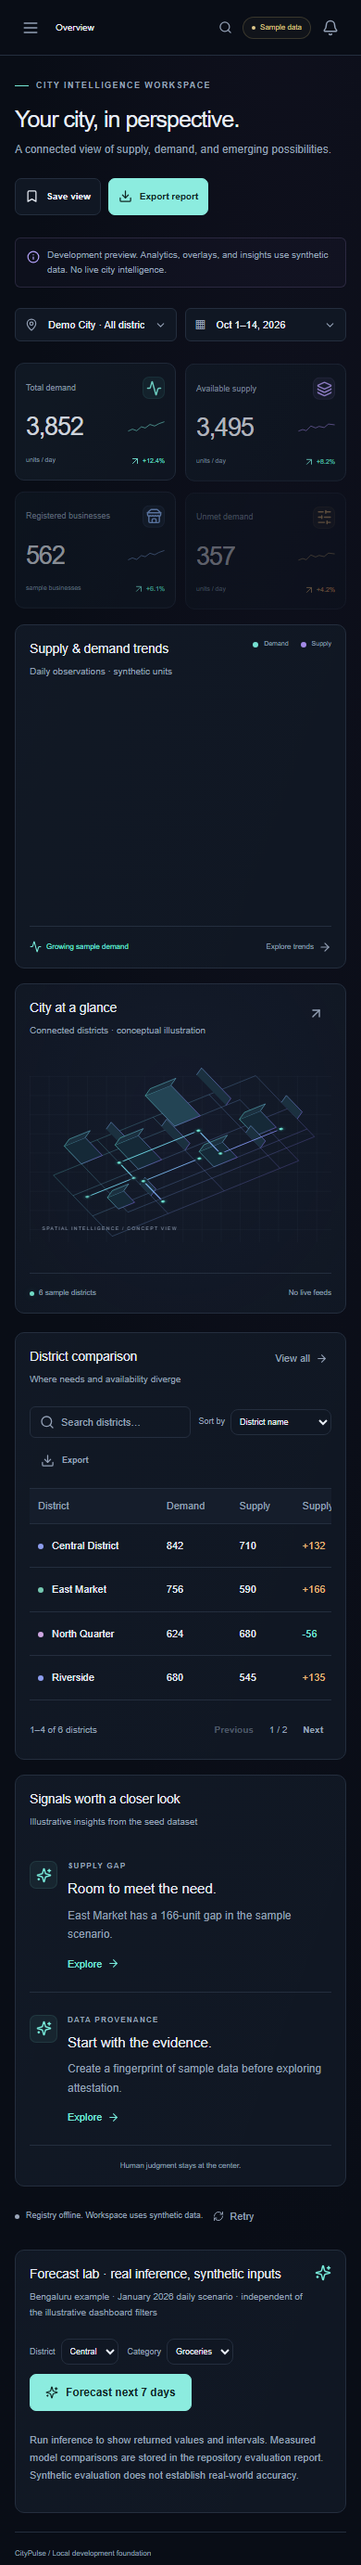
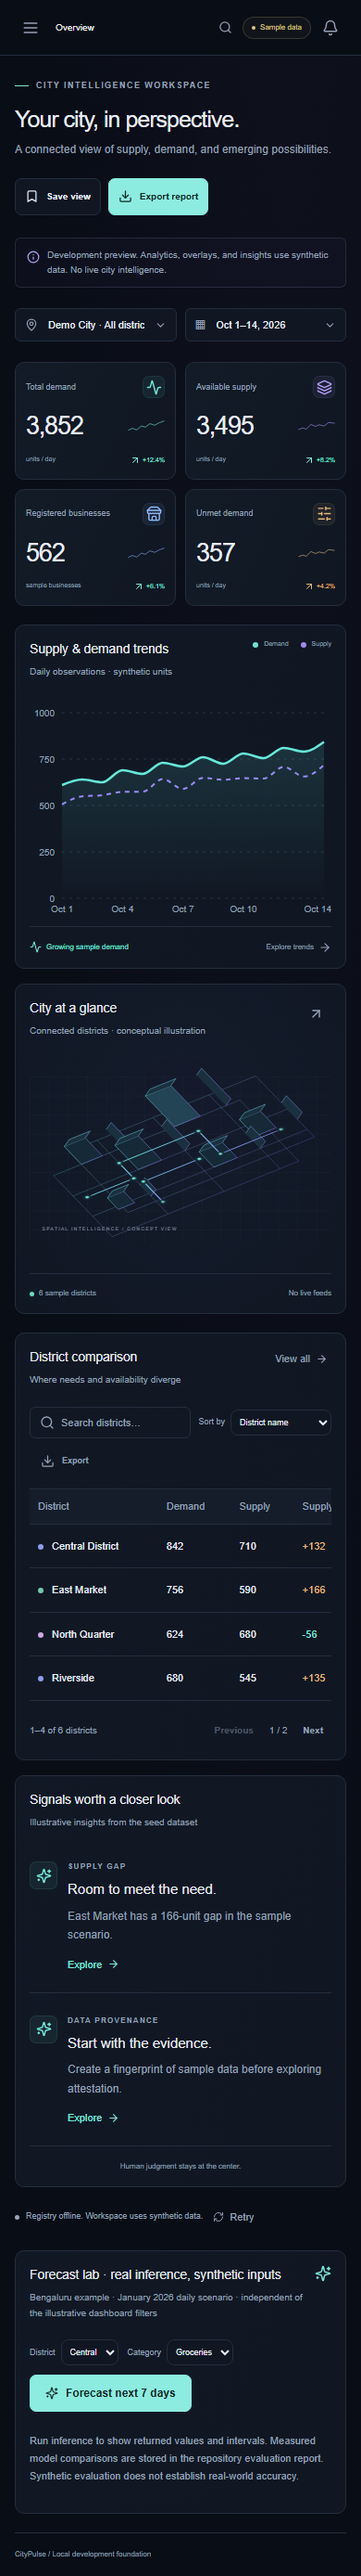
test: verify composed stack and visual assets

diff --git a/README.md b/README.md
@@ -123,11 +123,11 @@ For host commands, AI virtual environments, local chain startup, and troubleshoo
 
 ## Screenshots
 
-![Desktop report workspace with synthetic data](docs/assets/workspace-desktop.png)
+![CityPulse dashboard with synthetic data](docs/assets/dashboard-desktop.png)
 
-[Mobile report screenshot](docs/assets/workspace-mobile.png) · [Measured synthetic model comparison](docs/assets/model-comparison.png)
+[Mobile dashboard screenshot](docs/assets/dashboard-mobile.png) · [Report workspace](docs/assets/workspace-desktop.png) · [Measured synthetic model comparison](docs/assets/model-comparison.png)
 
-These are real browser captures from the PR CI interaction flow. See [validation report](docs/validation.md) for actual captures and test results. The UI labels seeded data consistently. Screenshots do not represent live city intelligence.
+These are real browser captures from the local production build and PR CI interaction flow. See [validation report](docs/validation.md) for actual captures and test results. The UI labels seeded data consistently. Screenshots do not represent live city intelligence.
 
 ## Testing
 
